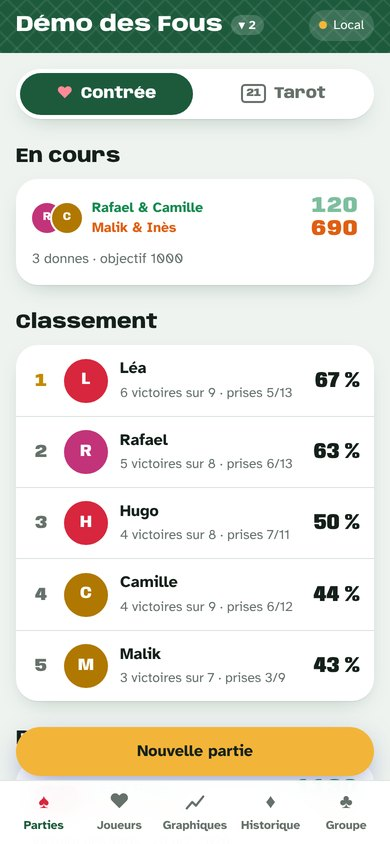
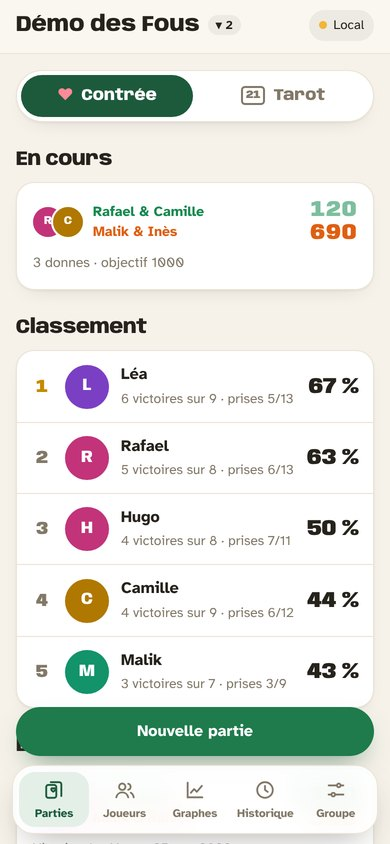
Design moderne : ouverture sur fond vert, onglet « Graphes », documentation et captures à jour
Claude-Session: https://claude.ai/code/session_01NyHCKANERz9twWocSDuguh

diff --git a/js/app.js b/js/app.js
@@ -18,7 +18,7 @@ import { computeTarotStats, evaluateTarot, tarotTimeline, TAROT_TIMELINE_STATS }
 
 // Numéro de version affiché dans l'onglet Groupe (pour vérifier une mise à jour)
 const APP_BUILD = 22;   // doit correspondre à 'fdc-v22' dans sw.js
-const APP_VERSION = `${APP_BUILD} — design moderne (essai)`;
+const APP_VERSION = `${APP_BUILD} — nouveau design`;
 const app = document.getElementById('app');
 const sheetRoot = document.getElementById('sheet');
 const overlayRoot = document.getElementById('overlay');
@@ -240,15 +240,18 @@ window.addEventListener('hashchange', () => {
 function render() {
   const st = store.getState();
   if (!st.group) {
+    setMetaTheme(BRAND_GREEN);
     app.innerHTML = welcomePage();
     return;
   }
   const r = route();
   if (ui.launch || r.name === 'start') {
+    setMetaTheme(BRAND_GREEN);
     app.innerHTML = launchPage();
     store.setPolling(false);
     return;
   }
+  setMetaTheme(HEADER_STYLES[headerStyle()].c);
   ui.bindQueue = [];
   let page;
   switch (r.name) {
@@ -305,7 +308,7 @@ function shell(title, body, { back = null, fab = '', active = '', groupSwitch = 
     <nav class="tabs five" aria-label="Navigation">
       ${tab('#/', TAB_ICONS.home, 'Parties', 'home')}
       ${tab('#/players', TAB_ICONS.players, 'Joueurs', 'players')}
-      ${tab('#/charts', TAB_ICONS.charts, 'Graphiques', 'charts')}
+      ${tab('#/charts', TAB_ICONS.charts, 'Graphes', 'charts')}
       ${tab('#/history', TAB_ICONS.history, 'Historique', 'history')}
       ${tab('#/settings', TAB_ICONS.settings, 'Groupe', 'settings')}
     </nav>`;
@@ -345,9 +348,11 @@ const HEADER_STYLES = {
 function headerStyle() {
   try { const k = localStorage.getItem('fdc:header'); return HEADER_STYLES[k] ? k : 'clair'; } catch { return 'clair'; }
 }
+const BRAND_GREEN = '#1d5a3c';   // ouverture et menu des groupes : toujours sur fond vert
+function setMetaTheme(c) { document.querySelector('meta[name="theme-color"]')?.setAttribute('content', c); }
 function applyHeaderStyle(k = headerStyle()) {
   document.documentElement.dataset.header = k;
-  document.querySelector('meta[name="theme-color"]')?.setAttribute('content', HEADER_STYLES[k].c);
+  setMetaTheme(HEADER_STYLES[k].c);
 }
 applyHeaderStyle();
 
@@ -364,15 +369,20 @@ function showSplash() {
   el.setAttribute('aria-hidden', 'true');
   el.innerHTML = `${logoImg('splash-logo')}<p class="splash-name"><small>Les Fous de</small>la Contrée</p>`;
   document.body.appendChild(el);
-  // Pendant le logo, tout le fond de l'écran prend la couleur du logo (pas de bande claire en bas)
+  // Pendant le logo, tout l'écran (et la barre du téléphone) passe en vert, sans bande claire en bas
   document.documentElement.classList.add('splashing');
+  setMetaTheme(BRAND_GREEN);
   const quick = window.matchMedia?.('(prefers-reduced-motion: reduce)').matches;
   let gone = false;
   const close = () => {
     if (gone) return;
     gone = true;
     el.classList.add('out');
-    setTimeout(() => { el.remove(); document.documentElement.classList.remove('splashing'); }, 450);
+    setTimeout(() => {
+      el.remove();
+      document.documentElement.classList.remove('splashing');
+      if (!ui.launch && store.getState().group) applyHeaderStyle();
+    }, 450);
   };
   el.addEventListener('click', close);
   setTimeout(close, quick ? 800 : 2600);

diff --git a/css/app.css b/css/app.css
@@ -737,9 +737,11 @@ html:is([data-header="vert"], [data-header="noir"], [data-header="bordeaux"], [d
 .hero h2 { color: var(--hdr-ink); font-stretch: 100%; letter-spacing: -.02em; }
 .hero p { color: var(--hdr-sub); opacity: 1; }
 .av.l { box-shadow: 0 0 0 4px var(--card), 0 10px 26px -12px rgba(38, 34, 28, .45); }
-.welcome .top { border-bottom: 1px solid var(--hdr-line); background: var(--hdr-solid); }
+/* Écran d'ouverture et menu des groupes : toujours sur fond vert, quel que soit le bandeau choisi */
+.welcome .top { background: var(--brand); color: #fff; border-bottom: 0; }
 .logo, .brand-top .logo { font-stretch: 100%; letter-spacing: -.025em; }
-.splash.felt, html.splashing, html.splashing body { background: var(--hdr-solid); }
+.splash.felt { background: var(--brand); color: #fff; }
+html.splashing, html.splashing body { background: var(--brand); }
 .win.felt { background-color: var(--brand); color: #fff; }
 
 /* Titres et chiffres plus sobres */
@@ -763,7 +765,9 @@ h2 { font-stretch: 100%; font-weight: 800; letter-spacing: -.02em; }
   background: rgba(255, 255, 255, .86); backdrop-filter: blur(16px) saturate(1.4); -webkit-backdrop-filter: blur(16px) saturate(1.4);
   box-shadow: 0 14px 34px -14px rgba(38, 34, 28, .4);
 }
-.tabs a { border-radius: 16px; padding: 7px 0 5px; font-size: 11.5px; transition: background .15s, color .15s; }
+.tabs a { border-radius: 16px; padding: 7px 2px 5px; font-size: 11.5px; transition: background .15s, color .15s;
+  min-width: 0; white-space: nowrap; overflow: hidden; text-overflow: ellipsis; }
+@media (max-width: 360px) { .tabs { left: 8px; right: 8px; padding: 5px; } .tabs a { font-size: 10.5px; } }
 .tabs a .ic svg { width: 22px; height: 22px; }
 .tabs a[aria-current="page"] { background: var(--brand-soft); color: var(--brand); }
 .tabs a[aria-current="page"] .ic { color: var(--brand); }

diff --git a/index.html b/index.html
@@ -5,7 +5,7 @@
   <meta name="viewport" content="width=device-width, initial-scale=1, viewport-fit=cover">
   <title>Les Fous de la Contrée</title>
   <meta name="description" content="Compteur de points et statistiques pour la contrée">
-  <meta name="theme-color" content="#faf7f1">
+  <meta name="theme-color" content="#1d5a3c">
   <link rel="manifest" href="manifest.webmanifest">
   <link rel="icon" type="image/png" sizes="192x192" href="icons/icon-192.png">
   <link rel="apple-touch-icon" href="icons/apple-touch-icon.png">

diff --git a/docs/GUIDE.md b/docs/GUIDE.md
@@ -21,8 +21,8 @@ Retour à la [présentation](../README.md) · [Installation](INSTALLATION.md)
 - **% de prises sur les donnes jouées** : nombre de prises du joueur divisé par le nombre de donnes distribuées pendant qu'il était à la table (donnes « tous passent » comprises). Exemple : 2 prises sur 8 donnes = 25 %. Disponible pour la partie en cours, dans le profil (carrière), dans les graphiques et l'export.
 - **Mise à jour** : si une version plus récente est en ligne, un bandeau « Mettre à jour » apparaît. Le bouton **Groupe → Forcer la mise à jour de l'app** vide la mémoire de l'app et recharge la dernière version (les parties et joueurs ne sont pas touchés).
 - **Pendant une partie** (contrée et tarot), un graphique sous les cartes des joueurs suit une statistique au choix, une courbe par joueur, recalculée après chaque donne : % de prises réussies, prises réussies, points moyens par contrat réussi (contrée) ou gain moyen par prise (tarot), contres, belotes, petits au bout, score… Le bouton « Cette partie | Carrière » choisit entre les statistiques de la partie seule et celles de toute la carrière.
-- **Graphiques en direct** : dans l'onglet Graphiques et dans les profils, la partie en cours apparaît comme dernier point, en pointillés (provisoire). Les prises, contres, belotes, etc. y sont comptés tout de suite ; les victoires, places et podiums ne comptent qu'à la fin de la partie.
-- **Onglet Graphiques** : choisissez une statistique dans la liste et touchez les joueurs à comparer (8 au maximum). Une courbe par joueur montre la valeur cumulée après chaque partie du groupe. Touchez la courbe pour lire les valeurs de tous les joueurs à cette partie. Le tableau « Aujourd'hui » donne les valeurs actuelles.
+- **Graphiques en direct** : dans l'onglet Graphes et dans les profils, la partie en cours apparaît comme dernier point, en pointillés (provisoire). Les prises, contres, belotes, etc. y sont comptés tout de suite ; les victoires, places et podiums ne comptent qu'à la fin de la partie.
+- **Onglet Graphes** : choisissez une statistique dans la liste et touchez les joueurs à comparer (8 au maximum). Une courbe par joueur montre la valeur cumulée après chaque partie du groupe. Touchez la courbe pour lire les valeurs de tous les joueurs à cette partie. Le tableau « Aujourd'hui » donne les valeurs actuelles.
 
 ## Règles de comptage
 
@@ -119,7 +119,7 @@ Pour retirer un lien, rouvrez **Liens** et touchez la fiche marquée ✓.
 
 ## Tarot
 
-Le sélecteur **Contrée | Tarot**, en haut des onglets Parties, Joueurs, Graphiques et Historique et dans les profils, choisit le jeu affiché. Les profils des joueurs sont communs aux deux jeux, mais leurs statistiques sont séparées.
+Le sélecteur **Contrée | Tarot**, en haut des onglets Parties, Joueurs, Graphes et Historique et dans les profils, choisit le jeu affiché. Les profils des joueurs sont communs aux deux jeux, mais leurs statistiques sont séparées.
 
 **Une partie** se joue à 3, 4 ou 5 joueurs, touchés dans l'ordre où ils sont assis : l'app indique qui donne. Elle dure soit un **nombre de donnes fixé**, auquel cas elle se termine toute seule, soit en **partie libre**, et on la termine avec « Terminer la partie ». Le gagnant est le 1ᵉʳ au classement ; le podium regroupe les 3 premiers, ex aequo compris.
 
@@ -165,27 +165,31 @@ Les règles par défaut du tarot se règlent dans **Groupe → Règles du tarot*
 
 Le logo s'affiche à l'ouverture de l'app (écran d'accueil animé, puis en haut du menu des groupes). Pour le changer :
 
-- **le plus simple** : remplacer le fichier `img/logo.svg` par votre image, sous le même nom ;
-- **ou** déposer votre image dans `img/` (par exemple `img/logo.png`, carrée de préférence, 512 × 512 pixels) et l'indiquer dans `js/config.js` : `logo: 'img/logo.png'`.
+- **le plus simple** : remplacer le fichier `img/logo.jpg` par votre image, sous le même nom (image carrée, idéalement 640 × 640 pixels ; ses coins sont arrondis automatiquement) ;
+- **ou** déposer votre image dans `img/` (par exemple `img/logo.png`) et l'indiquer dans `js/config.js` : `logo: 'img/logo.png'`. L'ancien logo dessiné est toujours là : `logo: 'img/logo.svg'`.
 
 Les icônes de l'écran d'accueil du téléphone sont dans `icons/` (192, 512 et 180 pixels pour l'iPhone).
 
+### Bandeau du haut
+
+Chacun choisit sur son téléphone la couleur du bandeau du haut : **Groupe → Apparence → Bandeau du haut** (clair, vert, noir, bordeaux, bleu nuit ou sauge). Le logo d'ouverture et le menu des groupes restent toujours sur fond vert.
+
 ### Couleurs et formes de l'app
 
-Tout l'aspect visuel est dans **`css/app.css`**. Le plus simple est de changer les variables du début du fichier (bloc `:root`) :
+Tout l'aspect visuel est dans **`css/app.css`**. Les réglages du design actuel sont regroupés dans le bloc `:root` de la section « DESIGN MODERNE », à la fin du fichier :
 
 | Variable | Rôle | Valeur actuelle |
 |---|---|---|
-| `--brand` | bandeau du haut, titres, boutons (vert tapis de jeu) | `#1d5a3c` |
-| `--brand-2` | liens, boutons secondaires | `#23804f` |
-| `--brand-soft` | fonds pâles, boutons clairs | `#e1f1e6` |
-| `--red` | cœurs et carreaux, erreurs | `#d7263d` |
-| `--gold` | boutons principaux (« Nouvelle partie »…) | `#f2b53a` |
-| `--green` | contrats réussis | `#12936a` |
-| `--paper` | fond des écrans | `#eef3ef` |
+| `--brand` | vert principal : ouverture, boutons, onglet actif | `#1d5a3c` |
+| `--brand-2` | vert des liens et des boutons principaux | `#1f7a4c` |
+| `--brand-soft` | fonds vert pâle, boutons clairs | `#e4f0e7` |
+| `--paper` | fond des écrans (crème) | `#f6f2ea` |
 | `--card` | fond des cartes | `#ffffff` |
-| `--ink` | texte | `#15201a` |
-| `--r-lg`, `--r-md` | arrondi des cartes et boutons | `22px`, `14px` |
-| `--display`, `--body` | polices des titres et du texte | Anybody, Atkinson Hyperlegible |
+| `--line` | fins traits autour des cartes | `#ebe3d6` |
+| `--ink` | texte | `#26221c` |
+| `--muted` | texte secondaire | `#827868` |
+| `--red` | cœurs et carreaux, erreurs (début du fichier) | `#d7263d` |
+| `--r-lg`, `--r-md` | arrondi des cartes et boutons | `18px`, `12px` |
+| `--display`, `--body` | polices des titres et du texte (début du fichier) | Anybody, Atkinson Hyperlegible |
 
-Exemple : remplacer `--brand: #1d5a3c;` par `--brand: #6a1b4d;` rend le bandeau et les titres prune. Pensez aussi à `theme-color` dans `index.html` et `manifest.webmanifest` (couleur de la barre du téléphone). Après une modification, augmentez `VERSION` dans `sw.js` (et `APP_BUILD` dans `js/app.js`) pour que les téléphones prennent la nouvelle version. Les couleurs des courbes sont dans `SERIES_COLORS` (début de `js/app.js`).
+Les couleurs de bandeau proposées sont dans `HEADER_STYLES` (début de `js/app.js`) et dans les lignes `html[data-header="…"]` de `css/app.css`. Après une modification, augmentez `VERSION` dans `sw.js` (et `APP_BUILD` dans `js/app.js`) pour que les téléphones prennent la nouvelle version. Les couleurs des courbes sont dans `SERIES_COLORS` (début de `js/app.js`).

diff --git a/README.md b/README.md
@@ -1,5 +1,5 @@
 <p align="center">
-  <img src="img/logo.svg" alt="Logo Les Fous de la Contrée" width="140">
+  <img src="img/logo.jpg" alt="Logo Les Fous de la Contrée" width="160">
 </p>
 
 <h1 align="center">Les Fous de la Contrée</h1>
@@ -44,7 +44,7 @@ Elle s'installe sur iPhone et Android depuis le navigateur (« Ajouter à l'écr
 
 - **Profil de chaque joueur** avec sa photo : victoires, prises réussies, points moyens par contrat, annonce moyenne, contres réussis, chutes infligées en défense, belotes, capots, meilleur partenaire et adversaire redouté. Au tarot : niveau de ses prises (Petite, Garde…), place moyenne, podiums, petits au bout…
 - **Stats d'une partie** : touchez un joueur pendant la partie pour voir sa fiche détaillée sur cette partie seulement, ou basculez sur sa carrière.
-- **Graphiques** : choisissez une statistique et les joueurs à comparer, et suivez leur évolution partie après partie. Pendant une partie, une courbe par joueur se met à jour à chaque donne.
+- **Graphes** : choisissez une statistique et les joueurs à comparer, et suivez leur évolution partie après partie. Pendant une partie, une courbe par joueur se met à jour à chaque donne.
 - **Export CSV** des statistiques et de toutes les donnes, pour Excel.
 
 ### Jouer à plusieurs, en plusieurs groupes
@@ -62,8 +62,9 @@ Elle s'installe sur iPhone et Android depuis le navigateur (« Ajouter à l'écr
 
 ## Personnaliser
 
-- Le **logo** affiché à l'ouverture se change en remplaçant `img/logo.svg` (ou en indiquant une autre image dans `js/config.js`).
-- Les **couleurs** de l'app (vert tapis de jeu par défaut) sont réunies au début de `css/app.css`.
+- Le **logo** affiché à l'ouverture se change en remplaçant `img/logo.jpg` (ou en indiquant une autre image dans `js/config.js`).
+- Chacun choisit la **couleur du bandeau** sur son téléphone (Groupe → Apparence) : clair, vert, noir, bordeaux, bleu nuit ou sauge.
+- Les **couleurs** de l'app (fond crème, accent vert) sont réunies dans `css/app.css`.
 
 Le détail est dans le [guide d'utilisation](docs/GUIDE.md#modifier-le-design).
 
